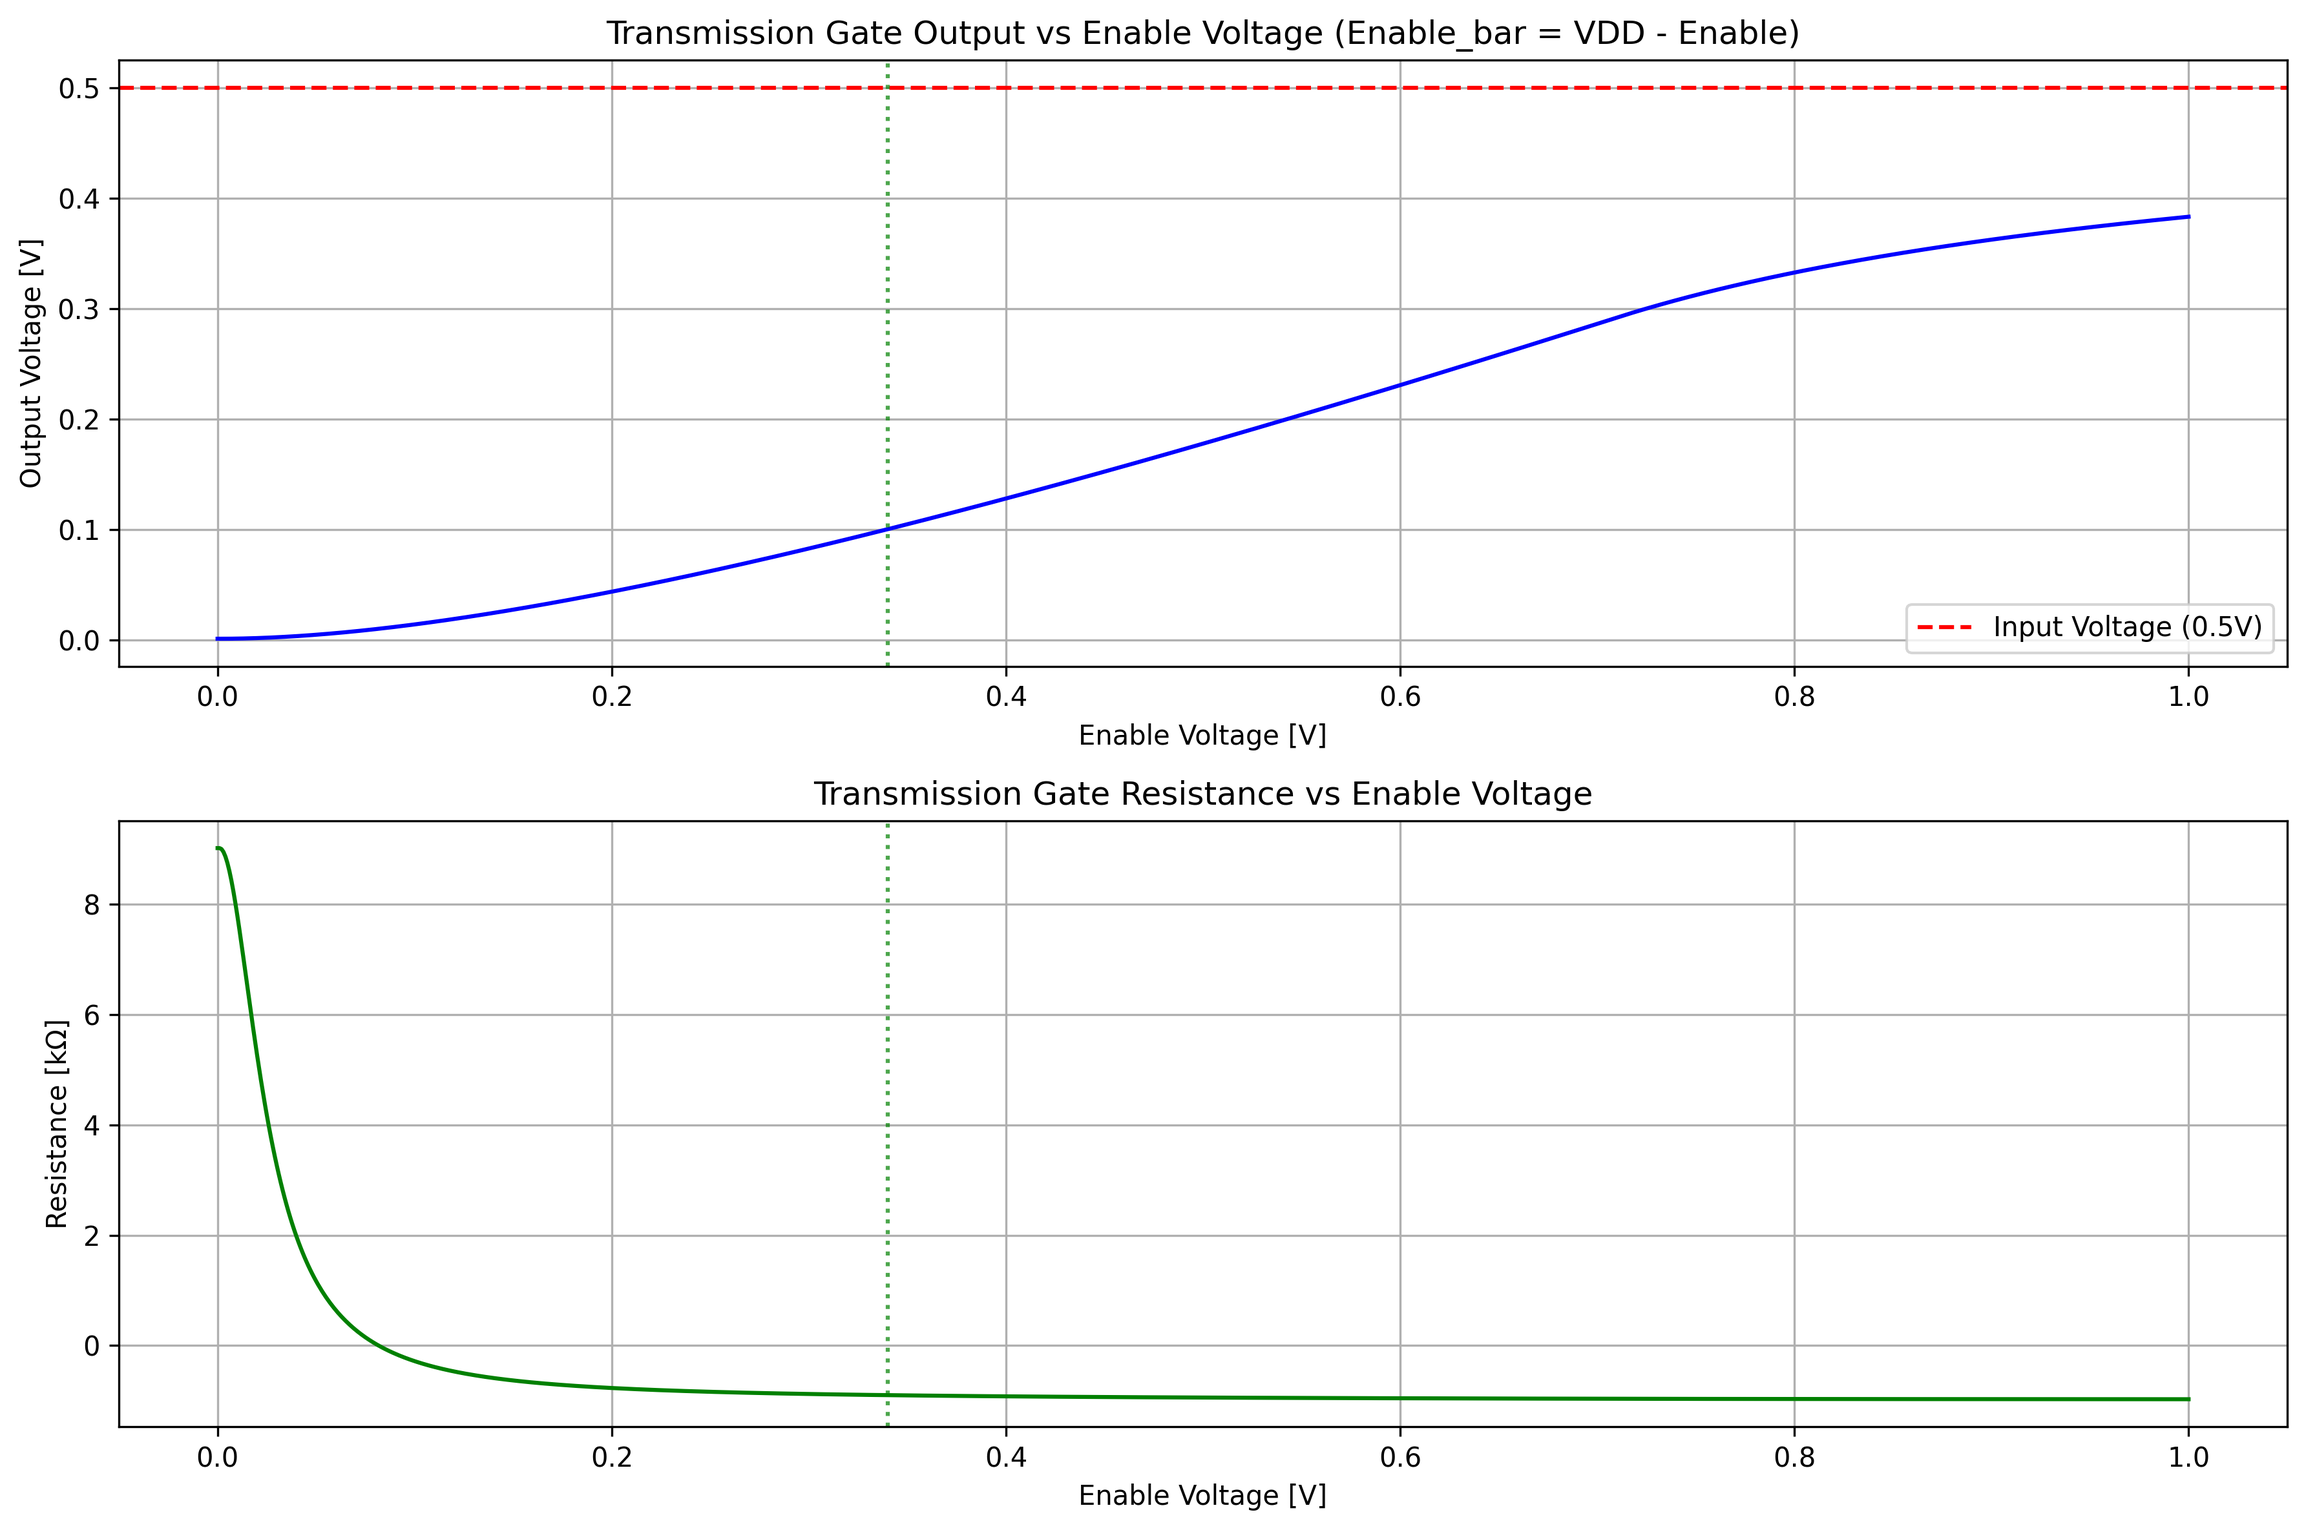
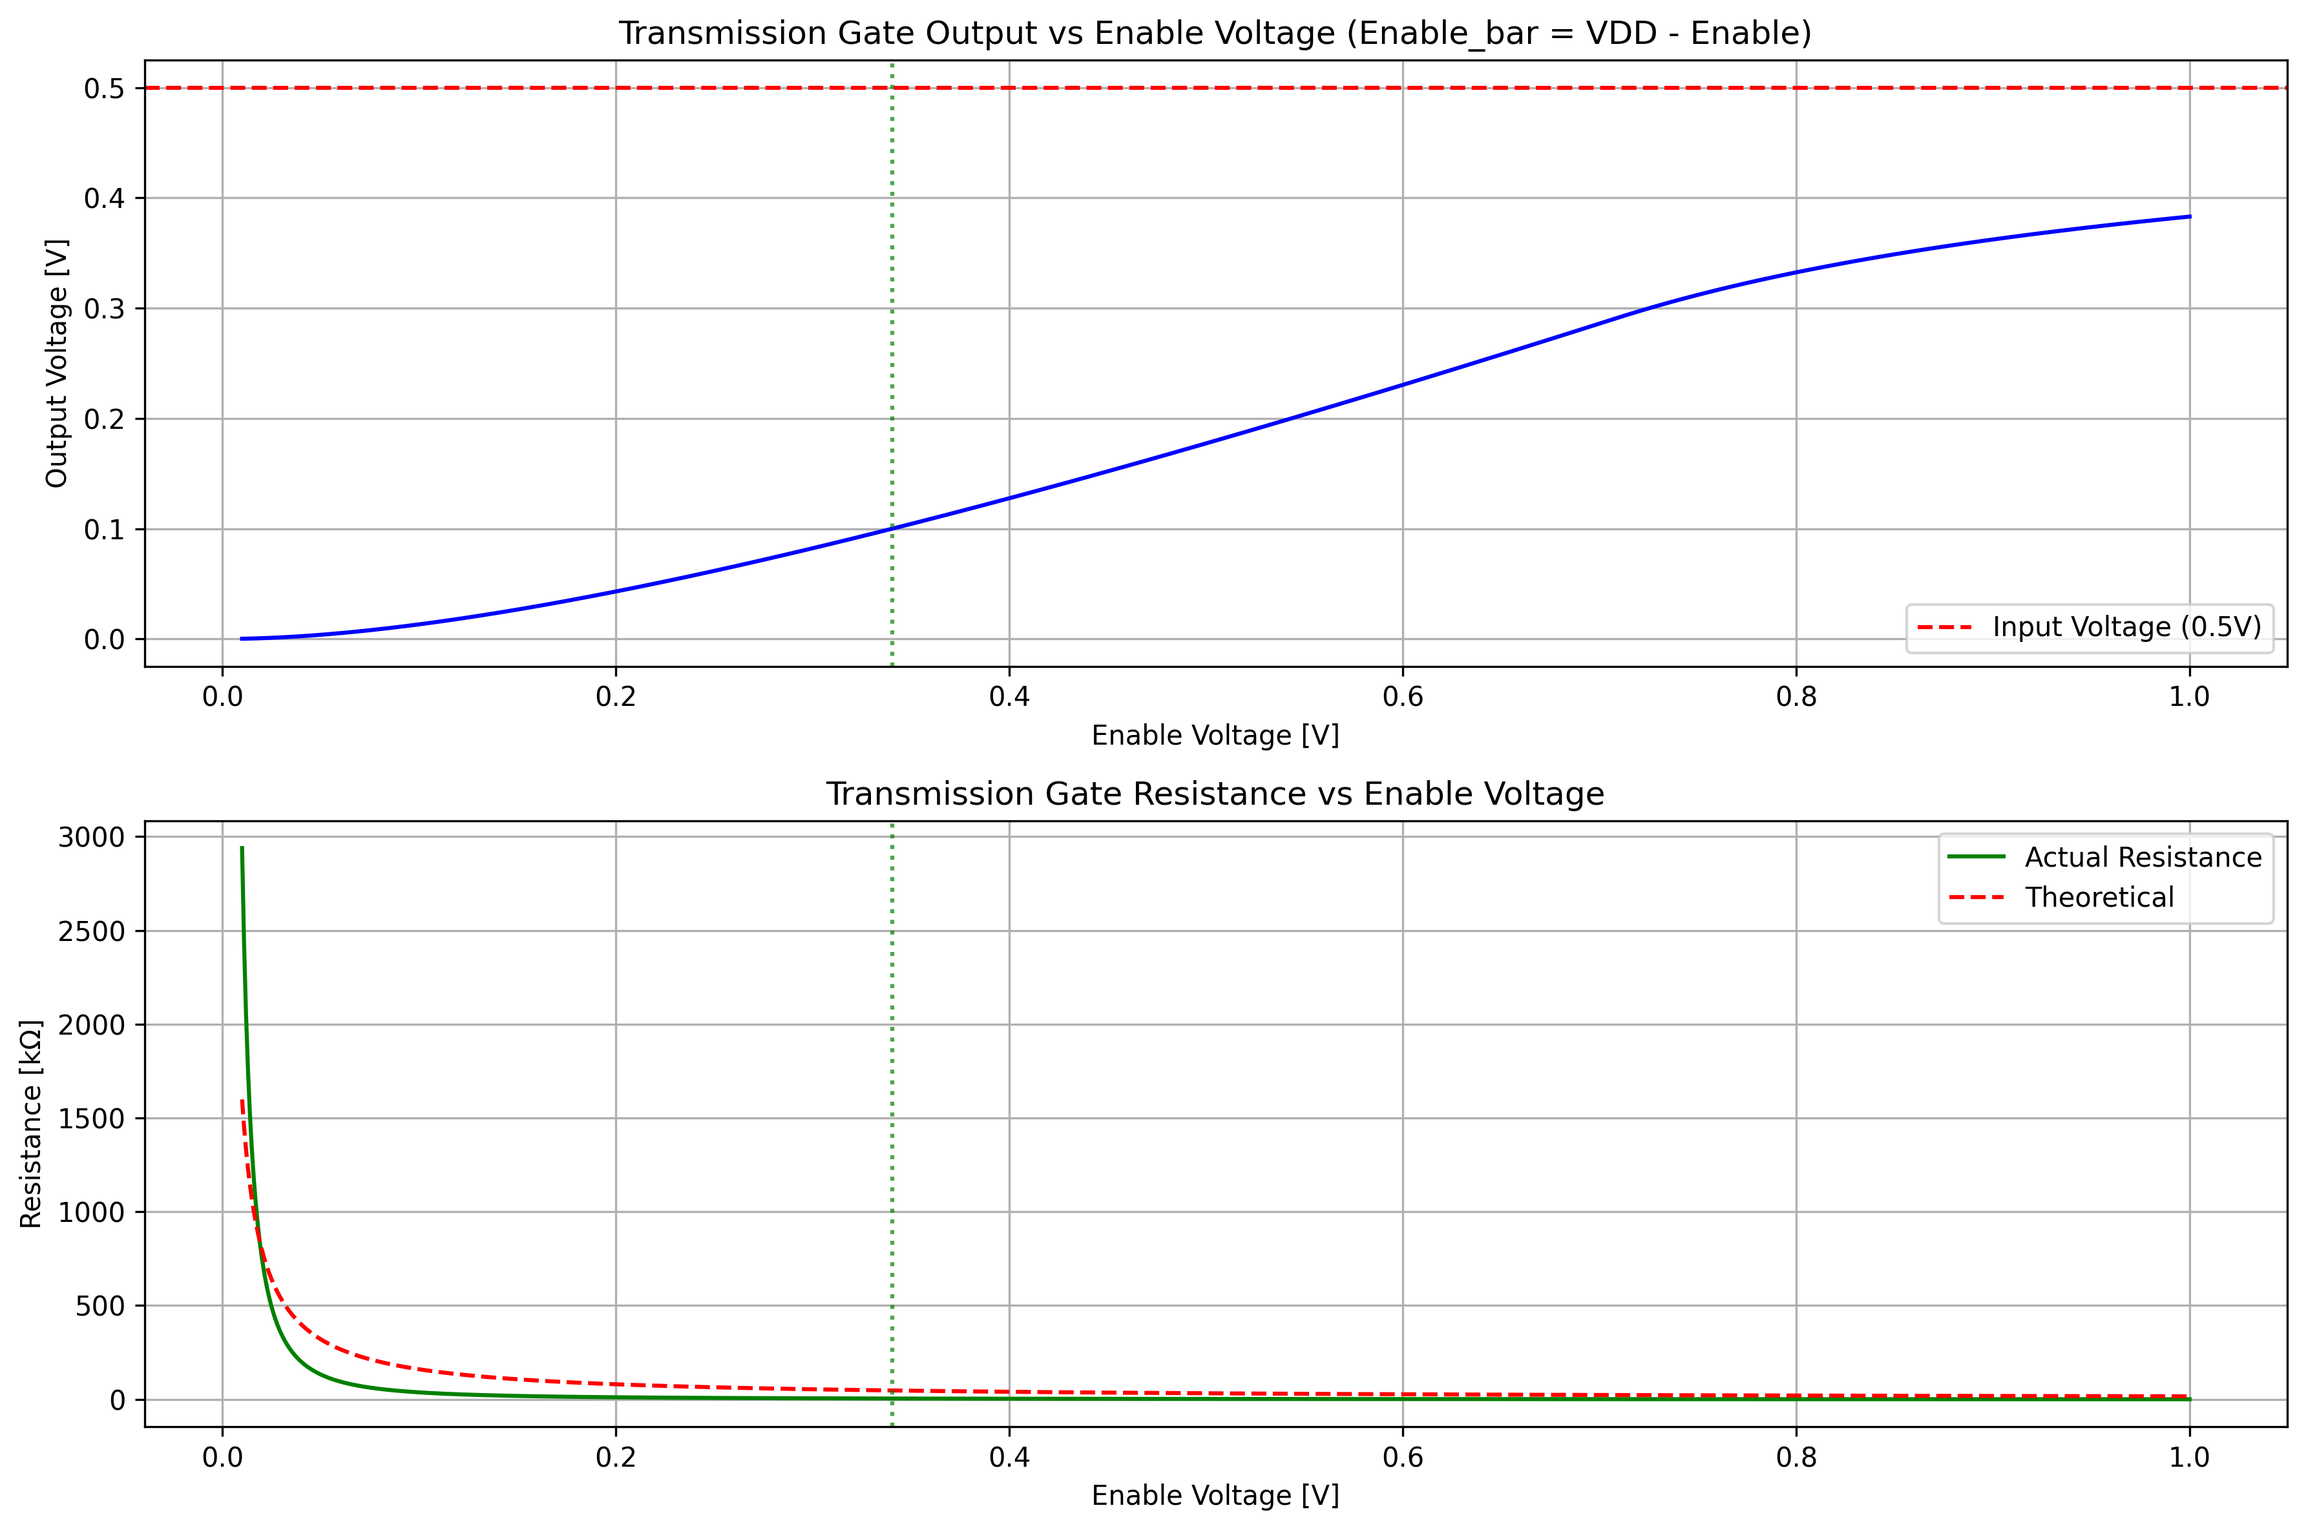
Product changes a_m

diff --git a/src/and_circuit.py b/src/and_circuit.py
@@ -1,0 +1,172 @@
+import PySpice.Logging.Logging as Logging
+
+from PySpice.Spice.Netlist import Circuit, SubCircuitFactory
+from PySpice.Unit import u_V
+import matplotlib.pyplot as plt
+import numpy as np
+
+
+class AndGate(SubCircuitFactory):
+    NAME = 'and_gate'
+    NODES = ('input_a', 'input_b', 'output', 'vdd', 'gnd')
+    
+    def __init__(self):
+        super().__init__()
+        
+        # Define the NMOS and PMOS models with parameters
+        self.model('NMOS', 'NMOS', vto=0, kp=1e-5, lambda_=200)
+        self.model('PMOS', 'PMOS', vto=0, kp=1e-5, lambda_=200)
+        
+        # First implement NAND gate
+        # PMOS transistors in parallel (from VDD to output)
+        # M <name> <drain node> <gate node> <source node> <bulk/substrate node>
+        self.M(1, 'nand_out', 'input_a', 'vdd', 'vdd', model='PMOS')
+        self.M(2, 'nand_out', 'input_b', 'vdd', 'vdd', model='PMOS')
+        
+        # NMOS transistors in series (from output to GND)
+        self.M(3, 'nand_out', 'input_a', 'node1', 'gnd', model='NMOS')
+        self.M(4, 'node1', 'input_b', 'gnd', 'gnd', model='NMOS')
+        
+        # Inverter to convert NAND to AND
+        self.M(5, 'output', 'nand_out', 'vdd', 'vdd', model='PMOS')
+        self.M(6, 'output', 'nand_out', 'gnd', 'gnd', model='NMOS')
+
+
+# Test plots for the AND gate
+def main():
+    # Create a circuit
+    circuit = Circuit('AND Gate Test')
+    
+    # Add the AND gate subcircuit
+    circuit.subcircuit(AndGate())
+    
+    # Instantiate the AND gate
+    circuit.X('and1', 'and_gate', 'in_a', 'in_b', 'out', 'vdd', circuit.gnd)
+    
+    # Add power supply
+    vdd = 1
+    circuit.V('dd', 'vdd', circuit.gnd, vdd@u_V)
+    
+    # Add input voltage sources - store references to them
+    v_in_a = circuit.V('in_a', 'in_a', circuit.gnd, 0@u_V)
+    v_in_b = circuit.V('in_b', 'in_b', circuit.gnd, 0@u_V)
+    
+    # Create simulator
+    simulator = circuit.simulator(temperature=25, nominal_temperature=25)
+    
+    # Test 1: Sweep input A while input B is low
+    print("Simulating with input B = 0V")
+    analysis1 = simulator.dc(Vin_a=slice(0, vdd, 0.01))
+    
+    # Test 2: Sweep input A while input B is high
+    print("Simulating with input B = {}V".format(vdd))
+    v_in_b.dc_value = vdd@u_V
+    analysis2 = simulator.dc(Vin_a=slice(0, vdd, 0.01))
+    
+    # Test 3: Sweep input B while input A is low
+    print("Simulating with input A = 0V")
+    v_in_a.dc_value = 0@u_V
+    analysis3 = simulator.dc(Vin_b=slice(0, vdd, 0.01))
+    
+    # Test 4: Sweep input B while input A is high
+    print("Simulating with input A = {}V".format(vdd))
+    v_in_a.dc_value = vdd@u_V
+    analysis4 = simulator.dc(Vin_b=slice(0, vdd, 0.01))
+    
+    # Test for analog multiplication behavior
+    # For analog multiplication, we'll interpret the voltage inputs as normalized values
+    # and the output as their product
+    print("Simulating analog multiplication behavior")
+    
+    # Create arrays for normalized inputs and expected multiplication result
+    num_points = 11
+    input_values = np.linspace(0, 1, num_points)
+    result_matrix = np.zeros((num_points, num_points))
+    output_matrix = np.zeros((num_points, num_points))
+    
+    # Perform simulations for various input combinations
+    for i, a_val in enumerate(input_values):
+        for j, b_val in enumerate(input_values):
+            # Set input voltages
+            v_in_a.dc_value = (a_val * vdd)@u_V
+            v_in_b.dc_value = (b_val * vdd)@u_V
+            
+            # Run operating point analysis
+            analysis = simulator.operating_point()
+            
+            # Get output and store in matrix
+            output_matrix[i, j] = float(analysis['out'][0])
+            
+            # Calculate expected multiplication result
+            result_matrix[i, j] = a_val * b_val
+    
+    # Plot the results
+    figure, (ax1, ax2, ax3, ax4) = plt.subplots(1, 4, figsize=(24, 8))
+    
+    # Plot for sweeping input A
+    ax1.set_title('AND Gate Response - Sweeping Input A')
+    ax1.set_xlabel('Input A Voltage [V]')
+    ax1.set_ylabel('Output Voltage [V]')
+    ax1.grid()
+    ax1.plot(analysis1['v-sweep'], analysis1['out'], label='Input B = 0V')
+    ax1.plot(analysis2['v-sweep'], analysis2['out'], label='Input B = {}V'.format(vdd))
+    ax1.legend()
+    
+    # Plot for sweeping input B
+    ax2.set_title('AND Gate Response - Sweeping Input B')
+    ax2.set_xlabel('Input B Voltage [V]')
+    ax2.set_ylabel('Output Voltage [V]')
+    ax2.grid()
+    ax2.plot(analysis3['v-sweep'], analysis3['out'], label='Input A = 0V')
+    ax2.plot(analysis4['v-sweep'], analysis4['out'], label='Input A = {}V'.format(vdd))
+    ax2.legend()
+    
+    # Plot the output matrix (actual AND gate output)
+    im3 = ax3.imshow(output_matrix, extent=[0, vdd, 0, vdd], origin='lower', aspect='auto')
+    ax3.set_title('Analog AND Gate Output')
+    ax3.set_xlabel('Input B Voltage [V]')
+    ax3.set_ylabel('Input A Voltage [V]')
+    plt.colorbar(im3, ax=ax3, label='Output Voltage [V]')
+    
+    # Plot the expected multiplication result
+    im4 = ax4.imshow(result_matrix, extent=[0, vdd, 0, vdd], origin='lower', aspect='auto')
+    ax4.set_title('Expected Multiplication (A × B)')
+    ax4.set_xlabel('Input B Voltage [V]')
+    ax4.set_ylabel('Input A Voltage [V]')
+    plt.colorbar(im4, ax=ax4, label='A × B')
+    
+    plt.tight_layout()
+
+    # Save the plot to a PNG file
+    plt.savefig('graphs/and_gate_simulation_results.png', dpi=300, bbox_inches='tight')
+    print("Plot saved to 'and_gate_simulation_results.png'")
+    
+    plt.show()
+    
+    # Truth table verification
+    print("\nAND Gate Truth Table Verification:")
+    print(f"A=0, B=0 => Output ≈ {float(analysis1['out'][0]):.3f}V")
+    print(f"A=1, B=0 => Output ≈ {float(analysis1['out'][-1]):.3f}V")
+    print(f"A=0, B=1 => Output ≈ {float(analysis3['out'][-1]):.3f}V")
+    print(f"A=1, B=1 => Output ≈ {float(analysis4['out'][-1]):.3f}V")
+    
+    # Verify multiplication behavior
+    print("\nAnalog Multiplication Verification (Selected Points):")
+    a_vals = [0.0, 0.2, 0.5, 0.8, 1.0]
+    b_vals = [0.0, 0.2, 0.5, 0.8, 1.0]
+    
+    print("      | " + " | ".join([f"B={b:.1f}" for b in b_vals]))
+    print("------" + "+-------" * len(b_vals))
+    
+    for a in a_vals:
+        i = int(a * (num_points - 1))
+        row = [f"A={a:.1f}"]
+        for b in b_vals:
+            j = int(b * (num_points - 1))
+            row.append(f"{output_matrix[i, j]:.3f}")
+        print(" | ".join(row))
+
+if __name__ == '__main__':
+    # Set up logging
+    logger = Logging.setup_logging()
+    main() 

diff --git a/src/am_new.py b/src/am_new.py
@@ -4,7 +4,7 @@ from PySpice.Unit import u_ms, u_us, u_F, u_Ω, u_V
 import matplotlib.pyplot as plt
 import numpy as np
 import os
-
+from and_circuit import AndGate
 from branch_voltage import TernaryMultiplexer
 
 class AMNewCircuit(SubCircuit):
@@ -36,24 +36,24 @@ class AMNewCircuit(SubCircuit):
         """
         super().__init__(f'AMCircuit_{cm1}_{cm2}_{cm3}_{R}_{C}', *self.NODES)
         
-        # Create and add the ternary multiplexers
+        # # Create and add the ternary multiplexers
         mux1 = TernaryMultiplexer(cmi=-cm1)
         mux2 = TernaryMultiplexer(cmi=-cm2)
         mux3 = TernaryMultiplexer(cmi=-cm3)
         
-        # Create and add the NOR gate
-        # nor_gate = NorGate()
+        # # Create and add the NOR gate
+        nor_gate = AndGate()
         
         # Add the subcircuits
         self.subcircuit(mux1)
         self.subcircuit(mux2)
         self.subcircuit(mux3)
-        # self.subcircuit(nor_gate)
+        self.subcircuit(nor_gate)
 
         mux1_out = 'mux1_out'
         mux2_out = 'mux2_out'
         mux3_out = 'mux3_out'
-        # nor12_out = 'nor12_out'
+        nor12_out = 'nor12_out'
         nor123_out = 'nor123_out'
         gain_node = 'gain_node'
         
@@ -63,21 +63,26 @@ class AMNewCircuit(SubCircuit):
         self.X('mux3', mux3.name, 'vi3', mux3_out, 'vdd', 'gnd')
 
         # Instantiate the NOR gate to compute V(vi1)*V(vi2)*V(vi3)
-        # self.X('nor12', nor_gate.name, mux1_out, mux2_out, nor12_out, 'vdd', 'gnd')
-        # self.X('nor123', nor_gate.name, nor12_out, mux3_out, nor123_out, 'vdd', 'gnd')
-        self.B('nor123', nor123_out, 'gnd', v='V(mux1_out)*V(mux2_out)*V(mux3_out)')
+        self.X('nor12', nor_gate.name, mux1_out, mux2_out, nor12_out, 'vdd', 'gnd')
+        self.X('nor123', nor_gate.name, nor12_out, mux3_out, nor123_out, 'vdd', 'gnd')
+        # self.B('nor123', nor123_out, 'gnd', v='V(mux1_out)*V(mux2_out)*V(mux3_out)')
 
         # Add 1V power supply to get V(vi1)*V(vi2)*V(vi3) + 1V
         self.V('gain_node', gain_node, nor123_out, 1@u_V)
         
         # Add RC circuit with initial condition capability
         self.R('1', 'n1', 'vam', R@u_Ω)
+        # variable_resistance = VariableResistance(cmi=-1)
+        # self.subcircuit(variable_resistance)
+        # self.X('var_res', variable_resistance.name, gain_node, 'n1', 'vam', 'vdd', 'gnd')
+        
         self.C('1', 'n1', 'gnd', C@u_F)
         
         # Add controlled source with feedback to create exponential growth
         # The growth rate is determined by: growth_rate = (gain-1)/(RC)
         # E <name> <out+> <out-> <in+> <in-> <gain>
         self.B('amp', 'vam', 'gnd', v='V(gain_node)*V(n1)')
+        # self.VCVS('amp', 'vam', 'gnd', 'n1', 'gnd', voltage_gain=2)
 
 
 def simulate_am_circuit():
@@ -85,7 +90,8 @@ def simulate_am_circuit():
     Simulate the AM circuit and plot the output.
     """
     # Define component values
-    R = 10e3
+    # R = 10e3
+    R = 15990
     C = 0.01e-6
 
     # Set simulation parameters

diff --git a/src/transmission_gate.py b/src/transmission_gate.py
@@ -3,6 +3,7 @@ from PySpice.Spice.Netlist import Circuit, SubCircuitFactory
 from PySpice.Unit import u_V, u_Ohm
 import matplotlib.pyplot as plt
 import numpy as np
+from scipy.optimize import curve_fit
 
 
 class TransmissionGate(SubCircuitFactory):
@@ -34,7 +35,7 @@ class TransmissionGate(SubCircuitFactory):
         self.M(2, 'output', 'enable_bar', 'input', 'vdd', model='PMOS', w=8, l=0.5)  # Wider width, shorter length
         
         # Higher resistance to ensure sharper transition
-        self.R('leak', 'input', 'output', 500e3@u_Ohm)  # Increased from 500k to 5M ohms
+        # self.R('leak', 'input', 'output', 500e3@u_Ohm)  # Increased from 500k to 5M ohms
 
 
 def test_resistive_behavior():
@@ -193,7 +194,8 @@ def test_enable_sweep():
     num_steps = 1001
     
     # Arrays to store results
-    enable_values = np.linspace(0, vdd, num_steps)
+    epsilon = 1e-2
+    enable_values = np.linspace(epsilon, vdd, num_steps)
     output_voltages = np.zeros(num_steps)
     resistances = np.zeros(num_steps)
     
@@ -218,12 +220,8 @@ def test_enable_sweep():
         current = output_voltages[i] / R_load
         
         # Calculate resistance (avoid division by zero)
-        epsilon = 1e-10
-        if current > epsilon:
-            resistances[i] = voltage_drop / current
-        else:
-            resistances[i] = 1e6  # Very high resistance when current is near zero
-    
+        resistances[i] = voltage_drop / current
+
     # Find transition points for better analysis
     transition_indices = []
     for i in range(1, len(output_voltages)-1):
@@ -248,13 +246,31 @@ def test_enable_sweep():
     for idx in transition_indices:
         plt.axvline(x=enable_values[idx], color='g', linestyle=':', alpha=0.7)
     
+    # Add theoretical 1/V_enable curve
+    # Avoid division by zero by adding a small epsilon
+    # Value at v_enable = 1
+    # res_at_epsilon = resistances[0]
+    # multiplier = res_at_epsilon * epsilon
+    # theoretical_res = np.zeros_like(enable_values)
+    # for i, en_val in reversed(list(enumerate(enable_values))):
+    #     theoretical_res[i] = multiplier / en_val
+    # print(f"1/x scaled by {res_at_epsilon}")
+
+    def model(x, a):
+        return a / x
+    params, _ = curve_fit(model, enable_values, resistances)
+    print(f"R = {params[0]} / V_enable")
+    theoretical_res = params[0] / enable_values
+    
     # Plot 2: Resistance vs Enable
     plt.subplot(2, 1, 2)
-    plt.plot(enable_values, resistances / 1000, 'g-')
+    plt.plot(enable_values, resistances / 1000, 'g-', label='Actual Resistance')
+    plt.plot(enable_values, theoretical_res / 1000, 'r--', label='Theoretical')
     plt.xlabel('Enable Voltage [V]')
     plt.ylabel('Resistance [kΩ]')
     plt.title('Transmission Gate Resistance vs Enable Voltage')
     plt.grid(True)
+    plt.legend()
     
     # Add vertical lines at transition points if any were found
     for idx in transition_indices:

diff --git a/src/clause.py b/src/clause.py
@@ -50,6 +50,7 @@ class Clause(SubCircuit):
             raise ValueError("0 is not allowed as a control value")
         
         am = AMNewCircuit(cm1=cm1, cm2=cm2, cm3=cm3, R=R_aux, C=C_aux)
+        # am = AMFull(cm1=cm1, cm2=cm2, cm3=cm3, C=C_aux, gain=2)
         self.subcircuit(am)
         
         # Instantiate the AMFull subcircuit
